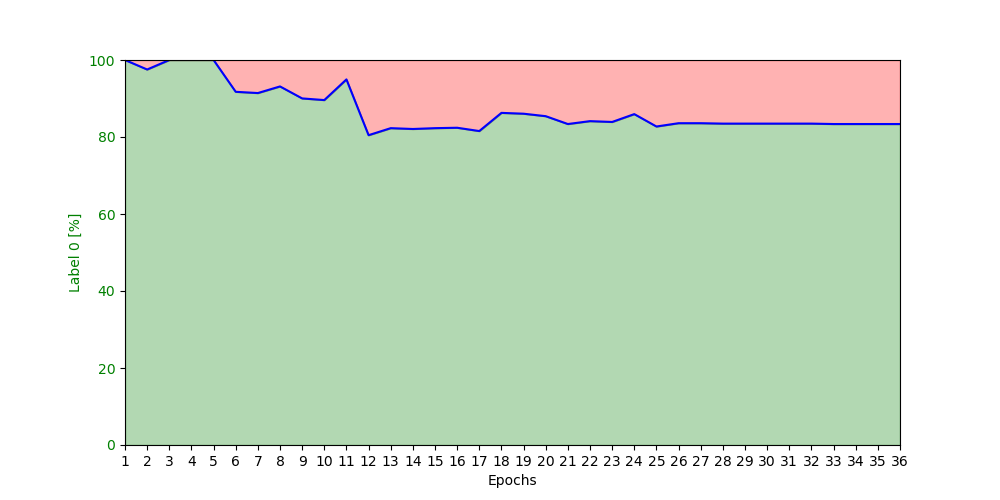
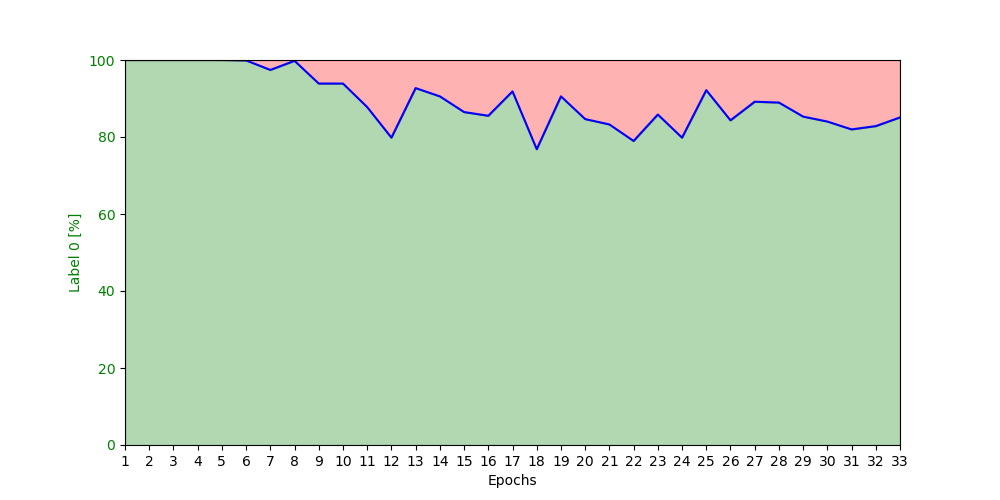
ADDED better results doc

Changed region(s): [[0.217, 0.12, 0.899, 0.3], [0.124, 0.9, 0.93, 0.93], [0.124, 0.12, 0.186, 0.15]]

diff --git a/RESULTS.md b/RESULTS.md
@@ -36,8 +36,17 @@
 
 - I could repdroduce PeptideBERTs results with my Pipeline
   - Only difference with my algorithm, I use grad_norm_clipping to avoid exploding gradients
-    
+  
 ![reproduced](./pictures/reproduced.png)
+
+#### Learning Curves generated through my algorithm
+
+- The Learning Curve for the leaked variant of PeptideBERT
+![leak_curve](./pictures/leak_curve.png)
+
+- The Learning Curve for the non leaked variant of PeptideBERT
+![non_leak_curve](./pictures/non_leak_curve.png)
+
 
 # Is this a Problem?
 
@@ -55,78 +64,51 @@
 
 - by predicting only 0 it will naturally achieve 80% accuracy since 80% of the data is labeled 0
 
-- Further in Training this will get pushed to the initial distribution of the labels of our data
+- I plotted the distribution of predicted labels for each batch in training and evaluation
+  - Area painted red representing the total of predicted 1 labels
+  - Area painted green representing the total of predicted 0 labels
+  
+### These are the results for the leakage variant of PeptideBERT
+    
+  
 
+  - Label Prediction for Epochs
+![epoch wise](./pictures/binary_label_abundance.png)
+  - Label Prediction for Train batches
+![batch wise](./pictures/train_batch_wise_label_prediction_label_abundance.png)
 
-![epoch problem](./pictures/epoch_big_problem.png)
+### These are the results for the non leakage variant of PeptideBERT
 
-- also seen in my algorithm
+  - Label Prediction for Epochs
+![nonleaked epoch wise](./pictures/non_leaked_label.png)
+  - Label Prediction for Train batches
+![nonleaked batch wise](./pictures/batch_wise_non_leaked.png)
 
-![reproduced_label](./pictures/reproduced_label.png)
-
-- it's the same when filtering out leaked data
-
-![epoch no leakage](./pictures/problem_with_out_leaked.png)
-
-- here a visualization of the distribution of predicted labels per epoch
-  - red is for label 1, positives
-  - green is for label 0, negatives
-
-![binary_label_abundance](./pictures/binary_label_abundance.png)
-
-- I first thought this is wierd, given the fact we have a binary classifier I would assume a 50/50ish initialization of the label prediction
-  - Dominik pointed out, The label distribution here is made on eval!
-    - [ ] Make the same plot for each batch in train!. Should be doable in forward method I overwrote
-    - [ ] I'm curious why the model predicts in the last epochs always the same relation of label 1 and 0
-
-
-- Anyway, the test I made look good.
+#### Testing this further
+- Anyway, the test I made looked good.
   - I used the Human Atlas Human Peptide Dataset for cleary non bioactive hemolytic Peptides
   - I used the hemolytic positiv data from our dataset for bioactive Peptides
     - The Idea, The human atlas data we should always see 0 since they are not hemolytic nor even bioactive, for our data we should see always 1 as prediction
 
 ![label_prediction_bias](./pictures/label_prediction_bias.png)
 
-- surprisingly the model predicts 0 for nearly every data in the negative data set. the few label 1 prediction could be due to general inaccuracy
-  - I expected 20% of the data to be predicted as label 1 if the model would've learned a distribution instead of a pattern in the sequences
-- For the Positiv Data the model predicts quite 50/50 correct with a trend to label 1
-  - I expected 20% of the data to be predicted as label 1 if the model would've learned a distribution instead of a pattern in the sequences
-
-
-- It looks like the models learns a Pattern in the sequence and can generalize the Task.
-  - [ ] Reassure with non leaked model!!! Since model knows much of the data already
-
 ### Cluster
 
-![tsne](./pictures/tsne.png)
+- [ ] Add cluster Graphs
 
-- No beatiful clusters here. I still don't know how Peptide Bert did their clustering. i tried a lot...
-  - [ ] Wait for Email with response from PeptideBERT Authors
+#### Leaked Variant
 
-### PeptideBert with my Data and optimizations
-![my_data](./pictures/my_data.png)
-- First look on algorithm with my pipeline and my data
-  - I could use some more datapoints. But first results looking good so far
-  - Accuracy does not look that good so far, but could be number of eval points
-  - BUT! The label prediction looks much healthier than with the original data
+- [ ] Add Plots
 
-### Further analysis
-- [ ] Implement their fisher test
-  
-*****************************************************
-- to adress the distribution of labels in our train data I tried to implement a weighted sampler for the train data and eval data
+#### Non Leaked 
 
-- I could also use a weighted loss function
-
-- [ ] Do I really need this????
-
-********
+- [ ] Add Plots
 
 ## Proof of Concept
 ### Step 4 Proof of Concept: MLMPeptideBERT
 
 - mlm task looks good so far. Naive Implementation of MLM Task with PeptideBERT provides stable results so far.
-- Plotted is eval_accuracy, i didnt manage to capture train_accuracy so far. It's on TODO
+- Plotted is eval_accuracy, I didn't manage to capture train_accuracy so far. It's on TODO
 
 ![MLM Task](./pictures/first_mlm.png)
 - Accuracy raise and loss decrease seems reasonable. 
@@ -142,3 +124,12 @@
 ### Step 5 Proof of Concept: Binary PeptideBERT
 
 - [ ] Still in Progress due to severe bug found in PeptideBERT train algorithm
+
+### Look into Label predictions
+
+#### With Data Leakage
+
+- Batch Wise
+![batch wise](./pictures/ourBERT_batchwise.png)
+- Epoch Wise
+![epoch wise](./pictures/ourBERT_epoch.png)
